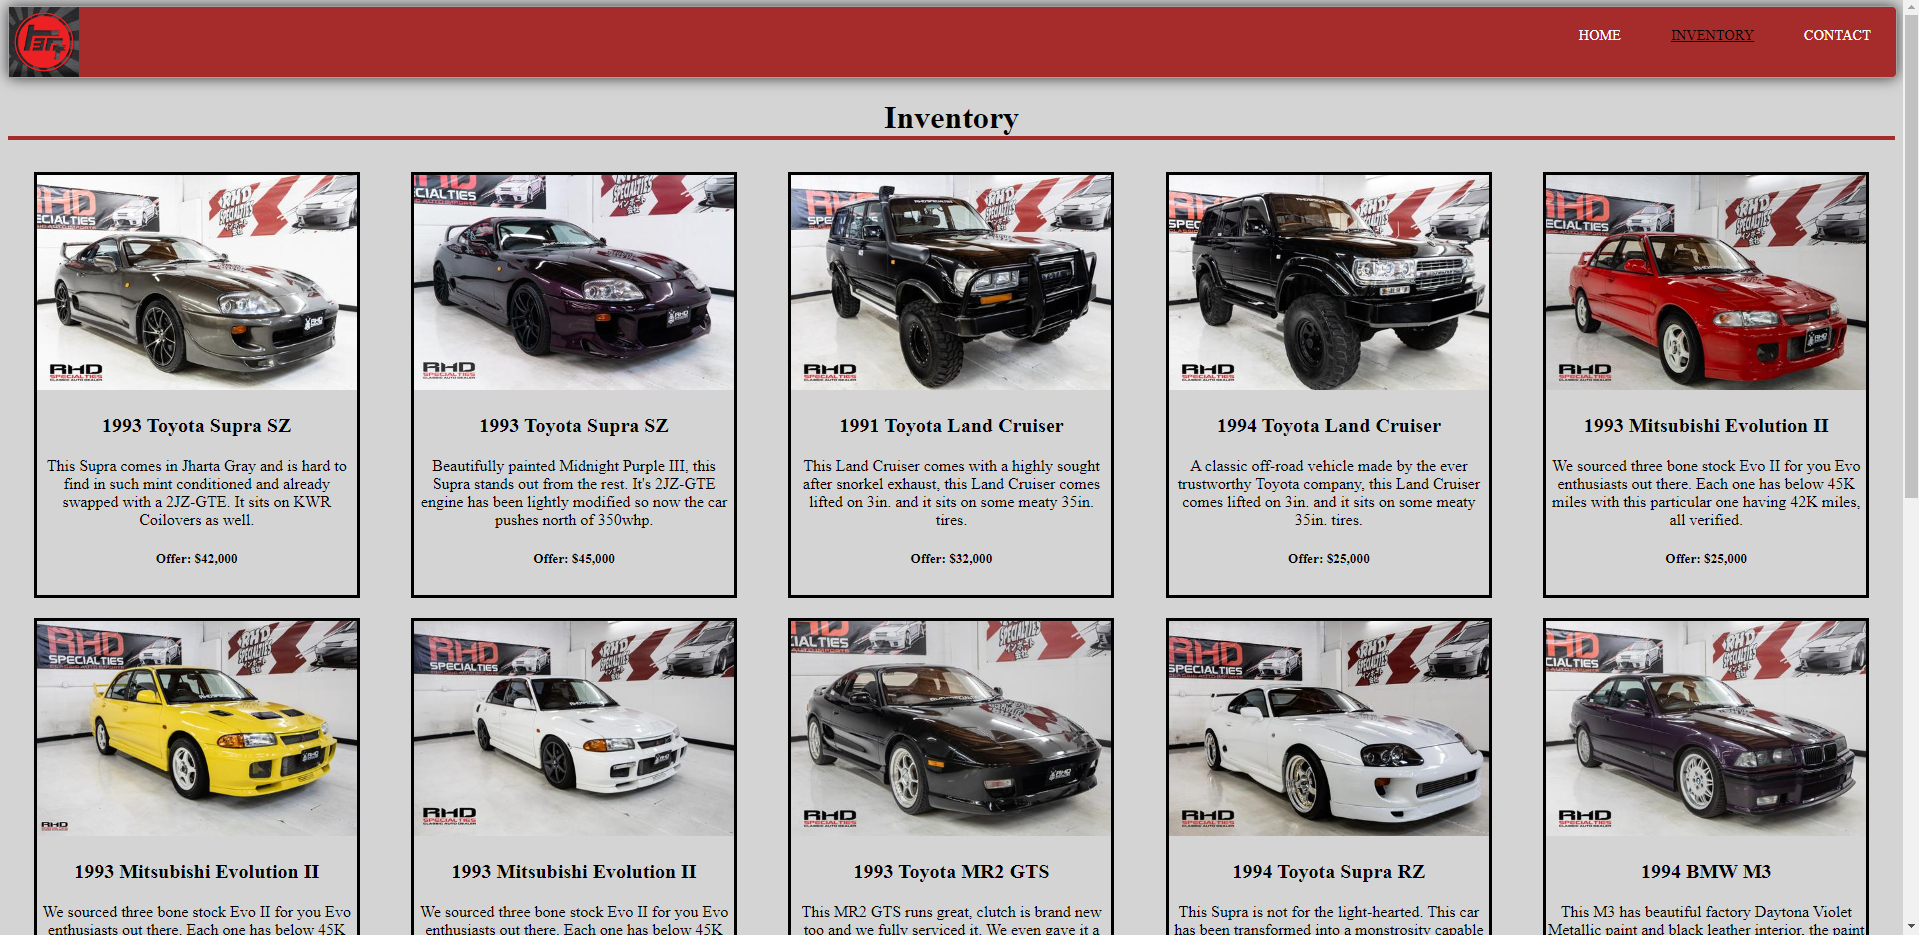
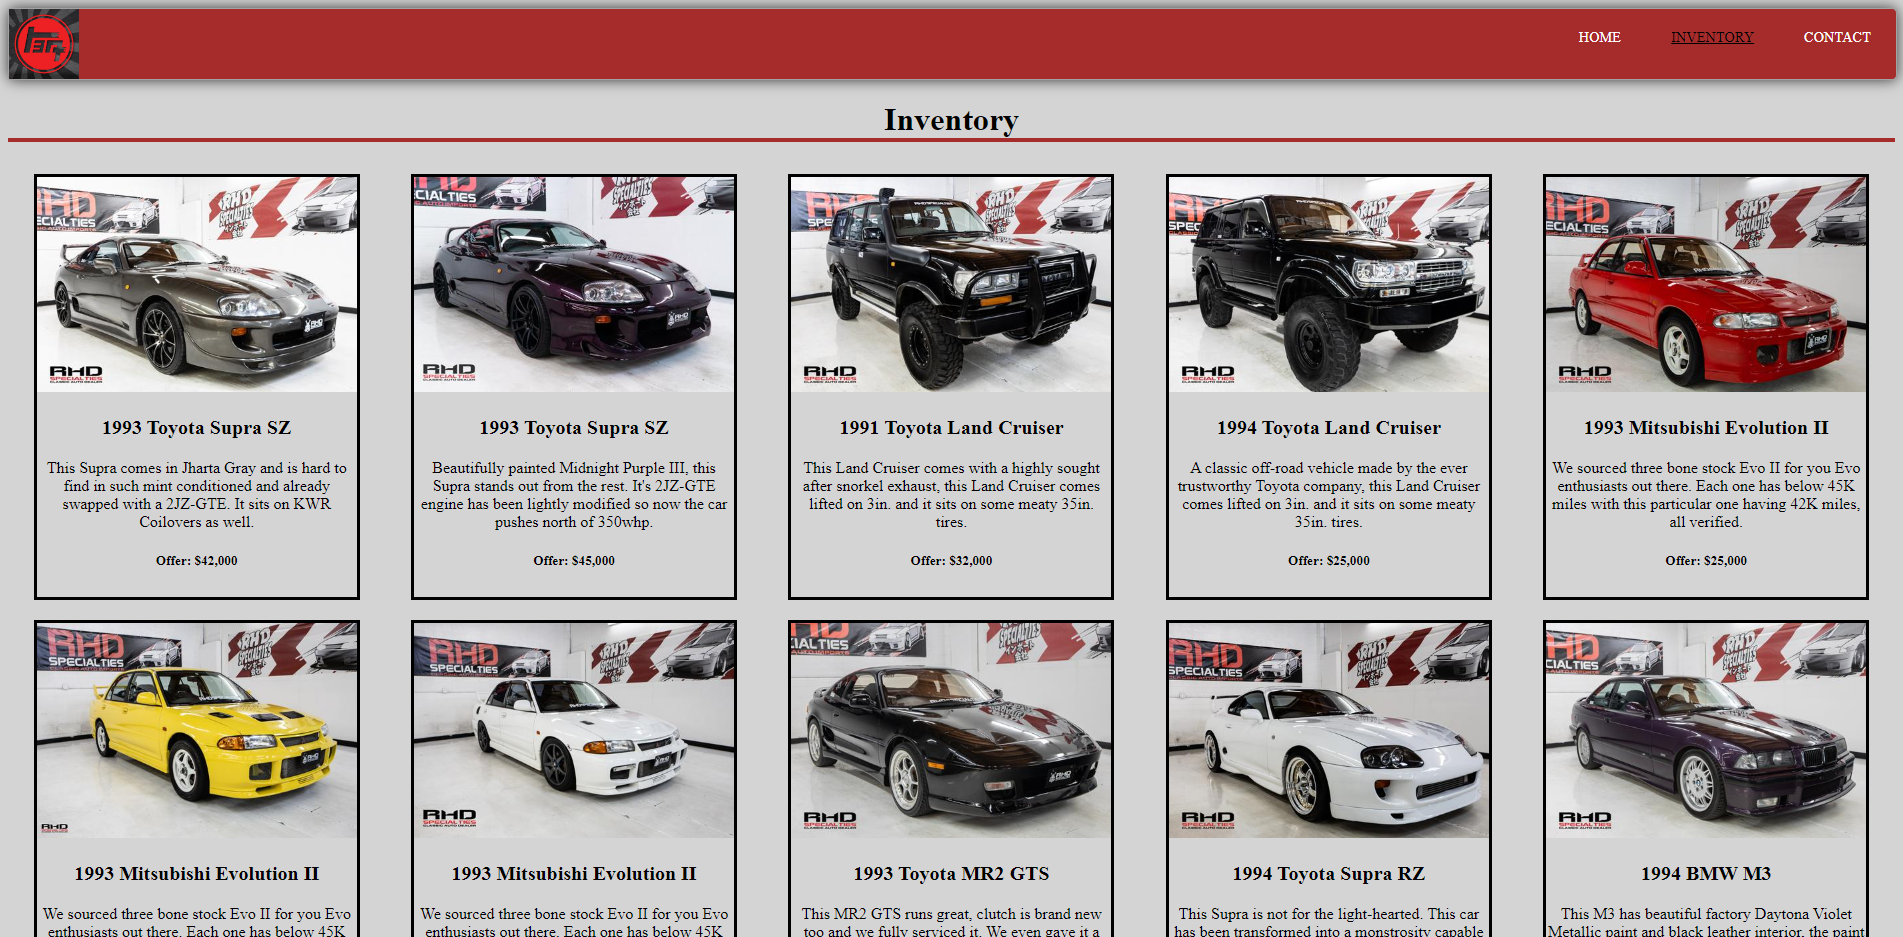
finished, lots of styling and added a footer component to cover a white space at the bottom

diff --git a/src/App.css b/src/App.css
@@ -7,9 +7,38 @@
   font-family: 'PT Sans', sans-serif;
 }
 
-.home,
-.portfolio,
-.contact {
+.images {
+  width: 90%;
+  display: block;
+  margin-left: auto;
+  margin-right: auto;
+}
+
+.project-title {
+  display: block;
+  text-align: center;
+  margin-left: auto;
+  margin-right: auto;
+  color: #aef;
+}
+
+.web-link-btn {
+  background-color: #f88379;
+  border-radius: 10px;
+  padding: 10px;
+  border-style: groove;
+  display: block;
+  text-decoration: none;
+  margin-left: auto;
+  margin-bottom: 20px;
+  margin-right: auto;
+}
+
+.web-link-btn:hover {
+  background-color: #aef;
+}
+
+.home {
   display: flex;
   height: 90vh;
   align-items: center;
@@ -17,20 +46,10 @@
   font-size: 3rem;
 }
 
-.portfolio {
-  background-image: url('/images/img-2.jpg');
-  background-position: center;
-  background-size: cover;
-  background-repeat: no-repeat;
-  color: #fff;
-  font-size: 100px;
-}
-
-.contact {
-  background-image: url('/images/img-1.jpg');
-  background-position: center;
-  background-size: fill;
-  background-repeat: no-repeat;
-  color: #fff;
-  font-size: 100px;
+.footer {
+  color: #aef;
+  display: block;
+  text-align: center;
+  margin-left: auto;
+  margin-right: auto;
 }

diff --git a/src/components/ProjectsOnDisplay/Projects.js b/src/components/ProjectsOnDisplay/Projects.js
@@ -1,10 +1,11 @@
 import React from 'react';
+// import './Projects.css';
 
 const Projects = ({imageSrc, title, link, gitHubLink}) => {
   return (
     <>
-          <img src={imageSrc} alt="project_screenshot" className="imgOne" />
-          <div className="slider-info">
+          <img src={imageSrc} alt="project_screenshot" className="images" />
+          <div>
             <h1 className="project-title">{title}</h1>
             <a target="_blank" rel='noopener noreferrer' href={link}><button className='web-link-btn'>Deployed Site</button> </a>
             <a target="_blank" rel='noopener noreferrer' href={gitHubLink}><button className='web-link-btn'>GitHub Link</button> </a>

diff --git a/src/components/MainPage/MainPage.js b/src/components/MainPage/MainPage.js
@@ -6,6 +6,7 @@ import carDealership from '../../assets/images/carDealership.png';
 import weatherApp from '../../assets/images/weatherApp.png';
 import indecisiveCook from '../../assets/images/indecisiveCook.png';
 import weatherDashboard from '../../assets/images/weatherDashboard.png';
+import Footer from '../Footer/Footer';
 
 function MainPage() {
     return (
@@ -35,6 +36,7 @@ function MainPage() {
                 link={"https://adrian93eh3.github.io/Weather-Dashboard/"}
                 gitHubLink={"https://github.com/Adrian93EH3/Weather-Dashboard"}
             />
+            <Footer />
         </div>
     )
 };

diff --git a/src/components/Navbar/Navbar.css b/src/components/Navbar/Navbar.css
@@ -1,5 +1,5 @@
 .navbar {
-    background: linear-gradient(90deg, rgb(28, 27, 27) 0%, rgb(26, 23, 23) 100%);
+    background: black;
     height: 80px;
     display: flex;
     justify-content: center;

diff --git a/src/components/Footer/Footer.js b/src/components/Footer/Footer.js
@@ -1,0 +1,9 @@
+import React from 'react'
+
+const Footer = () => {
+  return (
+    <div className="footer"> © 2022 || Adrian Diaz</div>
+  )
+}
+
+export default Footer;
